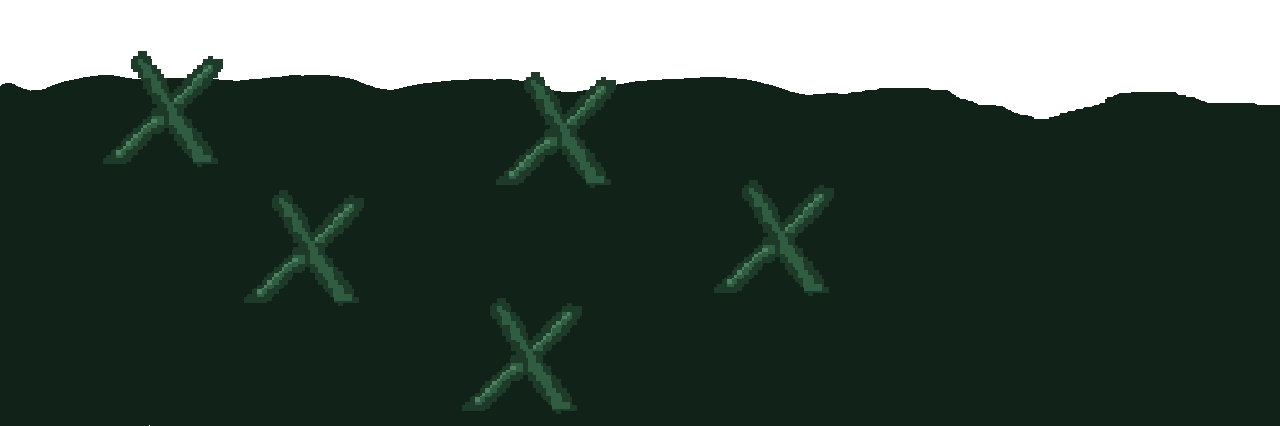
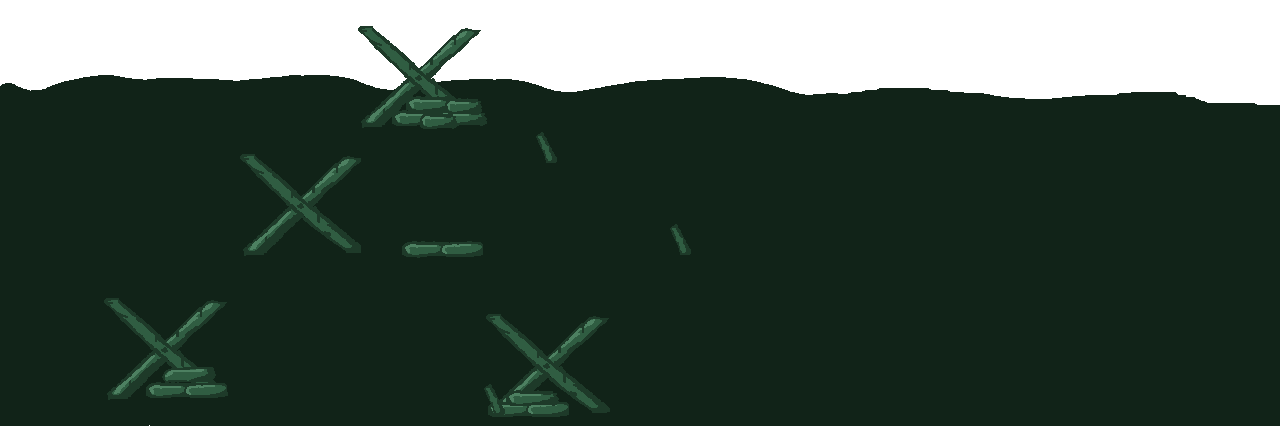
changed the foreground and added the sandbags

diff --git a/js/scenes/Scene2.js b/js/scenes/Scene2.js
@@ -19,7 +19,11 @@ class Scene2 extends Phaser.Scene {
 
 
         // Add foreground
-        this.foreground = this.add.image(this.cameras.main.width / 2, config.height - 210, 'foreground')
+        this.foreground = this.add.image(this.cameras.main.width / 2, config.height - 210, 'foreground');
+
+
+        // Add  sandbags
+        this.sandbags = this.add.image(this.cameras.main.width - 300, config.height - 210, 'sandbags');
 
 
         // Add player sprite

diff --git a/js/scenes/Scene1.js b/js/scenes/Scene1.js
@@ -6,7 +6,13 @@ class Scene1 extends Phaser.Scene {
 
     // Preload all Images an spites 
     preload() {
+
+        // Image for background
         this.load.image('foreground', 'assets/images/foreground.png');
+
+
+        // Image for Sandbags
+        this.load.image('sandbags', 'assets/images/sandbags.png');
 
 
         // Spitesheet for player Idle
